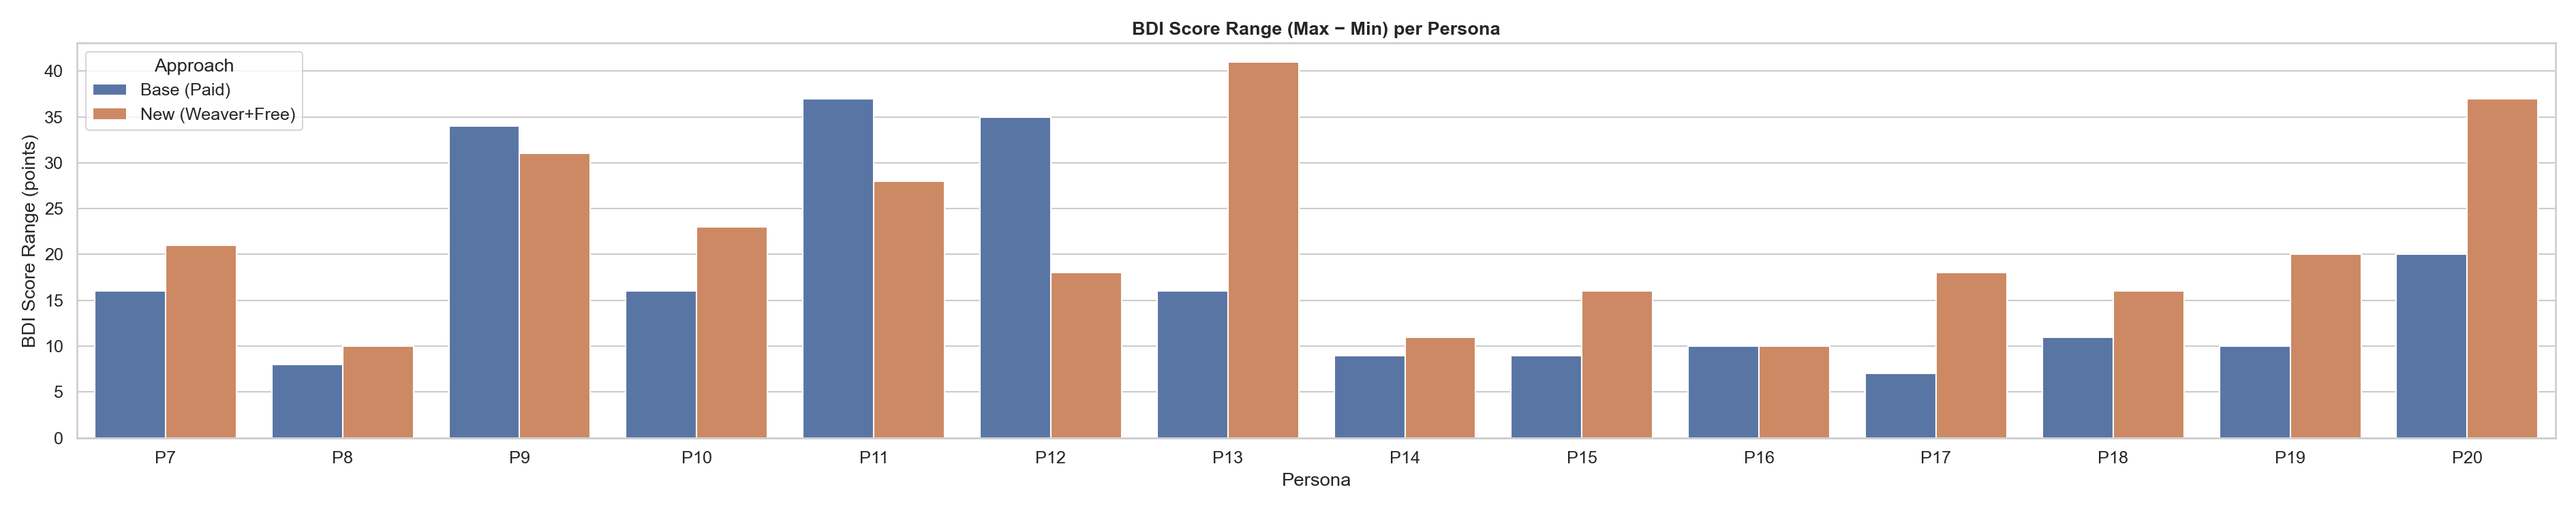
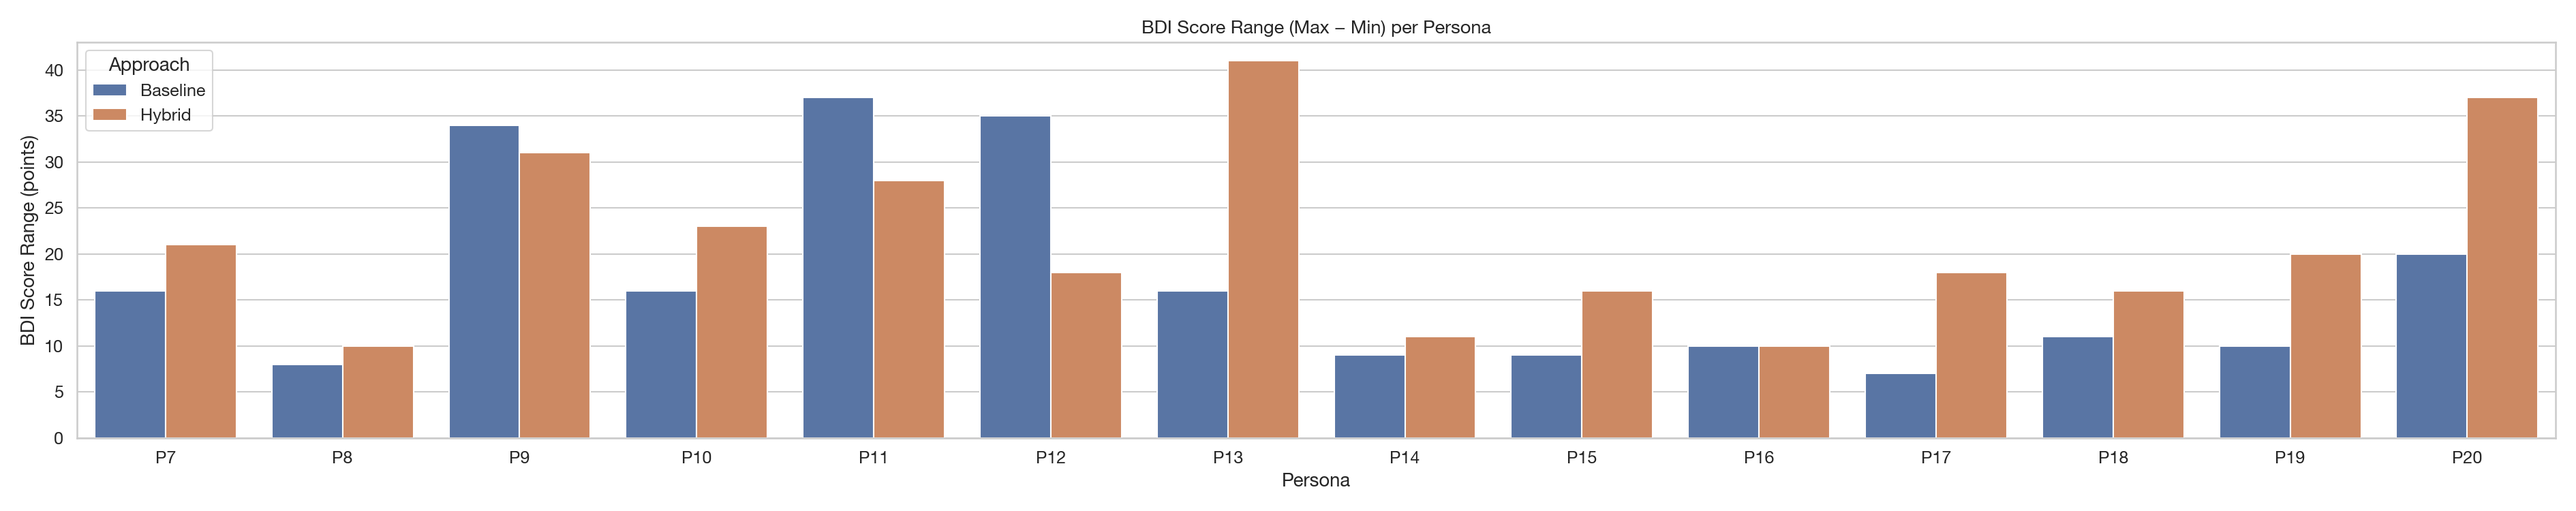
combine figures

diff --git a/user/victor/experiments/004-weaver/visualize.py b/user/victor/experiments/004-weaver/visualize.py
@@ -35,6 +35,11 @@ SEVERITY_COLORS = {
 }
 
 sns.set_theme(style="whitegrid", font_scale=1.1)
+plt.rcParams.update({
+    "font.family": "sans-serif",
+    "font.sans-serif": ["Helvetica Neue", "Helvetica", "Arial", "DejaVu Sans"],
+    "mathtext.fontset": "dejavusans",
+})
 
 
 # ── Data loading ─────────────────────────────────────────────────────────────
@@ -46,7 +51,7 @@ def load_csvs(results_dir: Path) -> pd.DataFrame:
         m = re.match(r"persona-(\d+)_scores_(base|new)\.csv", f.name)
         if not m:
             continue
-        approach = "Base (Paid)" if m.group(2) == "base" else "New (Weaver+Free)"
+        approach = "Baseline" if m.group(2) == "base" else "Hybrid"
         df = pd.read_csv(f)
         df["approach"] = approach
         rows.append(df)
@@ -77,11 +82,11 @@ def parse_symptoms(df: pd.DataFrame) -> pd.DataFrame:
 def plot_bdi_boxplot(df: pd.DataFrame, out: Path):
     """Box plots of BDI score per persona, side-by-side approaches."""
     personas = sorted(df["persona_label"].unique(), key=lambda p: int(p[1:]))
-    fig, ax = plt.subplots(figsize=(max(8, len(personas) * 1.8), 5))
+    fig, ax = plt.subplots(figsize=(max(8, len(personas) * 0.75), 5))
 
     sns.boxplot(
         data=df, x="persona_label", y="bdi_score", hue="approach",
-        order=personas, palette={"Base (Paid)": BASE_COLOR, "New (Weaver+Free)": NEW_COLOR},
+        order=personas, palette={"Baseline": BASE_COLOR, "Hybrid": NEW_COLOR},
         width=0.55, linewidth=1.2, flierprops=dict(marker="o", markersize=4),
         ax=ax,
     )
@@ -93,7 +98,7 @@ def plot_bdi_boxplot(df: pd.DataFrame, out: Path):
     ax.axhspan(14, 19, alpha=0.04, color="#bcbd22")
     ax.axhspan(20, 28, alpha=0.06, color="#ff7f0e")
     ax.axhspan(29, 63, alpha=0.06, color="#d62728")
-    _add_severity_legend(ax)
+    _add_severity_legend(ax, loc="upper left")
     ax.legend(title="Approach", loc="upper right")
     fig.tight_layout()
     fig.savefig(out / "01_bdi_boxplot_per_persona.png", dpi=150)
@@ -106,7 +111,7 @@ def plot_bdi_violin(df: pd.DataFrame, out: Path):
     fig, ax = plt.subplots(figsize=(6, 5))
     sns.violinplot(
         data=df, x="approach", y="bdi_score",
-        palette={"Base (Paid)": BASE_COLOR, "New (Weaver+Free)": NEW_COLOR},
+        palette={"Baseline": BASE_COLOR, "Hybrid": NEW_COLOR},
         inner="box", linewidth=1.2, ax=ax,
     )
     ax.set_title("Overall BDI Score Distribution", fontsize=14, fontweight="bold")
@@ -131,7 +136,7 @@ def plot_variance_comparison(df: pd.DataFrame, out: Path):
     fig, ax = plt.subplots(figsize=(max(8, len(personas) * 1.8), 5))
     sns.barplot(
         data=stats, x="persona_label", y="std", hue="approach",
-        order=personas, palette={"Base (Paid)": BASE_COLOR, "New (Weaver+Free)": NEW_COLOR},
+        order=personas, palette={"Baseline": BASE_COLOR, "Hybrid": NEW_COLOR},
         ax=ax,
     )
     ax.set_title("BDI Score Variance (Std Dev) per Persona", fontsize=14, fontweight="bold")
@@ -156,7 +161,7 @@ def plot_severity_distribution(df: pd.DataFrame, out: Path):
 
     fig, axes = plt.subplots(1, 2, figsize=(12, 5))
     for ax, approach, color in zip(
-        axes, ["Base (Paid)", "New (Weaver+Free)"], [BASE_COLOR, NEW_COLOR]
+        axes, ["Baseline", "Hybrid"], [BASE_COLOR, NEW_COLOR]
     ):
         sub = counts[counts["approach"] == approach]
         sub = sub.set_index("severity").reindex(SEVERITY_ORDER).fillna(0)
@@ -190,7 +195,7 @@ def plot_confidence_comparison(df: pd.DataFrame, out: Path):
     fig, ax = plt.subplots(figsize=(max(8, len(personas) * 1.8), 5))
     sns.boxplot(
         data=df, x="persona_label", y="confidence", hue="approach",
-        order=personas, palette={"Base (Paid)": BASE_COLOR, "New (Weaver+Free)": NEW_COLOR},
+        order=personas, palette={"Baseline": BASE_COLOR, "Hybrid": NEW_COLOR},
         width=0.55, linewidth=1.2, ax=ax,
     )
     ax.set_title("Scoring Confidence per Persona", fontsize=14, fontweight="bold")
@@ -211,7 +216,7 @@ def plot_turns_comparison(df: pd.DataFrame, out: Path):
     fig, ax = plt.subplots(figsize=(max(8, len(personas) * 1.8), 5))
     sns.boxplot(
         data=df, x="persona_label", y="turns", hue="approach",
-        order=personas, palette={"Base (Paid)": BASE_COLOR, "New (Weaver+Free)": NEW_COLOR},
+        order=personas, palette={"Baseline": BASE_COLOR, "Hybrid": NEW_COLOR},
         width=0.55, linewidth=1.2, ax=ax,
     )
     ax.set_title("Interview Turn Count per Persona", fontsize=14, fontweight="bold")
@@ -231,15 +236,15 @@ def plot_mean_scatter(df: pd.DataFrame, out: Path):
         .mean()
         .unstack("approach")
     )
-    if "Base (Paid)" not in means.columns or "New (Weaver+Free)" not in means.columns:
+    if "Baseline" not in means.columns or "Hybrid" not in means.columns:
         print("  Skipped scatter (missing approach)")
         return
 
     fig, ax = plt.subplots(figsize=(5.5, 5.5))
     for persona, row in means.iterrows():
-        ax.scatter(row["Base (Paid)"], row["New (Weaver+Free)"],
+        ax.scatter(row["Baseline"], row["Hybrid"],
                    s=90, zorder=5, color="#333")
-        ax.annotate(persona, (row["Base (Paid)"], row["New (Weaver+Free)"]),
+        ax.annotate(persona, (row["Baseline"], row["Hybrid"]),
                     textcoords="offset points", xytext=(6, 4), fontsize=9)
 
     lo = min(means.min()) - 3
@@ -247,9 +252,9 @@ def plot_mean_scatter(df: pd.DataFrame, out: Path):
     ax.plot([lo, hi], [lo, hi], "--", color="gray", linewidth=1, label="y = x")
     ax.set_xlim(lo, hi)
     ax.set_ylim(lo, hi)
-    ax.set_xlabel("Mean BDI — Base (Paid)")
-    ax.set_ylabel("Mean BDI — New (Weaver+Free)")
-    ax.set_title("Mean BDI Score: Base vs New per Persona",
+    ax.set_xlabel("Mean BDI, Baseline")
+    ax.set_ylabel("Mean BDI, Hybrid")
+    ax.set_title("Mean BDI Score: Baseline vs Hybrid per Persona",
                  fontsize=13, fontweight="bold")
     ax.legend(fontsize=9)
     fig.tight_layout()
@@ -258,14 +263,13 @@ def plot_mean_scatter(df: pd.DataFrame, out: Path):
     print(f"  Saved: 07_mean_bdi_scatter.png")
 
 
-def plot_symptom_heatmap(df: pd.DataFrame, out: Path):
-    """Heatmap of symptom frequency (% of samples) — base vs new."""
+def plot_symptom_panel(df: pd.DataFrame, out: Path):
+    """Side-by-side A/B panel: (A) symptom frequency heatmap, (B) frequency shift bar."""
     sym_df = parse_symptoms(df)
     if sym_df.empty:
-        print("  Skipped symptom heatmap (no symptom data)")
+        print("  Skipped symptom panel (no symptom data)")
         return
 
-    # Count how often each symptom appears (% of samples per approach)
     totals = df.groupby("approach").size().to_dict()
     counts = (
         sym_df.groupby(["approach", "key_symptoms"])
@@ -278,74 +282,54 @@ def plot_symptom_heatmap(df: pd.DataFrame, out: Path):
     pivot = counts.pivot_table(
         index="key_symptoms", columns="approach", values="pct", fill_value=0
     )
-    # Keep symptoms mentioned in ≥5% of samples by at least one approach
-    pivot = pivot[(pivot >= 5).any(axis=1)]
-    pivot = pivot.sort_values(
-        pivot.columns.tolist()[0] if pivot.columns.any() else pivot.columns[0],
-        ascending=False,
+
+    # Panel A data: symptoms in ≥5% of samples
+    pivot_heat = pivot[(pivot >= 5).any(axis=1)].sort_values(
+        pivot.columns.tolist()[0], ascending=False
     )
 
-    fig, ax = plt.subplots(figsize=(8, max(5, len(pivot) * 0.4 + 1)))
+    if "Baseline" not in pivot.columns or "Hybrid" not in pivot.columns:
+        return
+    diff = (pivot["Hybrid"] - pivot["Baseline"]).sort_values()
+    diff = diff[diff.abs() >= 3]
+
+    fig_h = max(5, max(len(pivot_heat), len(diff)) * 0.4 + 1)
+    fig, (ax_a, ax_b) = plt.subplots(1, 2, figsize=(15, fig_h))
+
+    # Panel A — heatmap
     sns.heatmap(
-        pivot, annot=True, fmt=".0f", cmap="YlOrRd",
+        pivot_heat, annot=True, fmt=".0f", cmap="YlOrRd",
         linewidths=0.5, cbar_kws={"label": "% of samples"},
-        ax=ax,
+        ax=ax_a,
     )
-    ax.set_title("Symptom Frequency (% samples flagged as key)",
-                 fontsize=13, fontweight="bold")
-    ax.set_xlabel("Approach")
-    ax.set_ylabel("Symptom")
-    fig.tight_layout()
-    fig.savefig(out / "08_symptom_heatmap.png", dpi=150)
-    plt.close(fig)
-    print(f"  Saved: 08_symptom_heatmap.png")
+    ax_a.set_title("A    Symptom Frequency (% samples flagged as key)",
+                   fontsize=12, fontweight="bold", loc="left")
+    ax_a.set_xlabel("Approach")
+    ax_a.set_ylabel("Symptom")
 
-
-def plot_symptom_diff_bar(df: pd.DataFrame, out: Path):
-    """Horizontal bar: difference in symptom frequency (new − base)."""
-    sym_df = parse_symptoms(df)
-    if sym_df.empty:
-        return
-
-    totals = df.groupby("approach").size().to_dict()
-    counts = (
-        sym_df.groupby(["approach", "key_symptoms"])
-        .size()
-        .reset_index(name="count")
-    )
-    counts["pct"] = counts.apply(
-        lambda r: r["count"] / totals.get(r["approach"], 1) * 100, axis=1
-    )
-    pivot = counts.pivot_table(
-        index="key_symptoms", columns="approach", values="pct", fill_value=0
-    )
-    if "Base (Paid)" not in pivot.columns or "New (Weaver+Free)" not in pivot.columns:
-        return
-    diff = (pivot["New (Weaver+Free)"] - pivot["Base (Paid)"]).sort_values()
-    diff = diff[diff.abs() >= 3]   # only show meaningful differences
-
-    fig, ax = plt.subplots(figsize=(7, max(4, len(diff) * 0.4 + 1)))
+    # Panel B — diff bar
     colors = [NEW_COLOR if v > 0 else BASE_COLOR for v in diff]
-    ax.barh(diff.index, diff.values, color=colors, edgecolor="white")
-    ax.axvline(0, color="black", linewidth=0.8)
-    ax.set_xlabel("Difference in % flagged (New − Base)")
-    ax.set_title("Symptom Frequency Shift: New vs Base",
-                 fontsize=13, fontweight="bold")
+    ax_b.barh(diff.index, diff.values, color=colors, edgecolor="white")
+    ax_b.axvline(0, color="black", linewidth=0.8)
+    ax_b.set_xlabel("Difference in % flagged (Hybrid − Baseline)")
+    ax_b.set_title("B    Symptom Frequency Shift: Hybrid vs Baseline",
+                   fontsize=12, fontweight="bold", loc="left")
     patches = [
-        mpatches.Patch(color=NEW_COLOR, label="More in New (Weaver+Free)"),
-        mpatches.Patch(color=BASE_COLOR, label="More in Base (Paid)"),
+        mpatches.Patch(color=NEW_COLOR, label="More in Hybrid"),
+        mpatches.Patch(color=BASE_COLOR, label="More in Baseline"),
     ]
-    ax.legend(handles=patches, fontsize=9)
+    ax_b.legend(handles=patches, fontsize=9)
+
     fig.tight_layout()
-    fig.savefig(out / "09_symptom_diff_bar.png", dpi=150)
+    fig.savefig(out / "08_symptom_panel.png", dpi=150)
     plt.close(fig)
-    print(f"  Saved: 09_symptom_diff_bar.png")
+    print(f"  Saved: 08_symptom_panel.png")
 
 
 def plot_confidence_vs_bdi(df: pd.DataFrame, out: Path):
     """Scatter: confidence vs BDI score, coloured by approach."""
     fig, ax = plt.subplots(figsize=(7, 5))
-    for approach, color in [("Base (Paid)", BASE_COLOR), ("New (Weaver+Free)", NEW_COLOR)]:
+    for approach, color in [("Baseline", BASE_COLOR), ("Hybrid", NEW_COLOR)]:
         sub = df[df["approach"] == approach]
         ax.scatter(sub["bdi_score"], sub["confidence"], alpha=0.5, s=30,
                    color=color, label=approach)
@@ -362,7 +346,7 @@ def plot_confidence_vs_bdi(df: pd.DataFrame, out: Path):
 def plot_turns_vs_bdi(df: pd.DataFrame, out: Path):
     """Scatter: turns vs BDI score, coloured by approach."""
     fig, ax = plt.subplots(figsize=(7, 5))
-    for approach, color in [("Base (Paid)", BASE_COLOR), ("New (Weaver+Free)", NEW_COLOR)]:
+    for approach, color in [("Baseline", BASE_COLOR), ("Hybrid", NEW_COLOR)]:
         sub = df[df["approach"] == approach]
         ax.scatter(sub["turns"], sub["bdi_score"], alpha=0.5, s=30,
                    color=color, label=approach)
@@ -384,7 +368,7 @@ def plot_severity_agreement(df: pd.DataFrame, out: Path):
         .unstack("approach")
         .reset_index()
     )
-    if "Base (Paid)" not in medians.columns or "New (Weaver+Free)" not in medians.columns:
+    if "Baseline" not in medians.columns or "Hybrid" not in medians.columns:
         return
 
     personas = sorted(medians["persona_label"].unique(), key=lambda p: int(p[1:]))
@@ -392,15 +376,15 @@ def plot_severity_agreement(df: pd.DataFrame, out: Path):
     w = 0.35
 
     fig, ax = plt.subplots(figsize=(max(8, len(personas) * 1.8), 5))
-    bars_base = ax.bar(x - w / 2, medians["Base (Paid)"],     w, color=BASE_COLOR, label="Base (Paid)")
-    bars_new  = ax.bar(x + w / 2, medians["New (Weaver+Free)"], w, color=NEW_COLOR,  label="New (Weaver+Free)")
+    bars_base = ax.bar(x - w / 2, medians["Baseline"],     w, color=BASE_COLOR, label="Baseline")
+    bars_new  = ax.bar(x + w / 2, medians["Hybrid"], w, color=NEW_COLOR,  label="Hybrid")
 
     ax.set_xticks(x)
     ax.set_xticklabels(personas)
     ax.set_xlabel("Persona")
     ax.set_ylabel("Median BDI Score")
     ax.set_ylim(0, 65)
-    ax.set_title("Median BDI Score per Persona: Base vs New",
+    ax.set_title("Median BDI Score per Persona: Baseline vs Hybrid",
                  fontsize=13, fontweight="bold")
     _add_severity_legend(ax, loc="upper left")
     ax.axhspan(0,  13, alpha=0.04, color="#2ca02c")
@@ -418,7 +402,7 @@ def plot_bdi_histogram_overlay(df: pd.DataFrame, out: Path):
     """Overlapping histograms of BDI scores for all samples."""
     fig, ax = plt.subplots(figsize=(7, 5))
     bins = np.arange(0, 66, 4)
-    for approach, color in [("Base (Paid)", BASE_COLOR), ("New (Weaver+Free)", NEW_COLOR)]:
+    for approach, color in [("Baseline", BASE_COLOR), ("Hybrid", NEW_COLOR)]:
         sub = df[df["approach"] == approach]["bdi_score"]
         ax.hist(sub, bins=bins, alpha=0.55, color=color, label=approach, edgecolor="white")
     ax.axvline(13.5, color="#2ca02c", linestyle=":", linewidth=1.2)
@@ -464,7 +448,7 @@ def plot_summary_table(df: pd.DataFrame, out: Path):
     # Colour approach cells
     for i in range(1, len(summary) + 1):
         approach = summary.iloc[i - 1]["Approach"]
-        color = "#dce8f5" if "Base" in approach else "#fde8d0"
+        color = "#dce8f5" if "Baseline" in approach else "#fde8d0"
         for j in range(len(summary.columns)):
             tbl[i, j].set_facecolor(color)
 
@@ -487,7 +471,7 @@ def plot_confidence_mean_bar(df: pd.DataFrame, out: Path):
     fig, ax = plt.subplots(figsize=(max(8, len(personas) * 1.8), 5))
     sns.barplot(
         data=stats, x="persona_label", y="confidence", hue="approach",
-        order=personas, palette={"Base (Paid)": BASE_COLOR, "New (Weaver+Free)": NEW_COLOR},
+        order=personas, palette={"Baseline": BASE_COLOR, "Hybrid": NEW_COLOR},
         ax=ax,
     )
     ax.axhline(0.6, linestyle="--", color="gray", linewidth=1, label="Threshold (0.6)")
@@ -529,11 +513,11 @@ def plot_top_symptoms_grouped(df: pd.DataFrame, out: Path):
     sns.barplot(
         data=sub, x="key_symptoms", y="pct", hue="approach",
         order=top_symptoms,
-        palette={"Base (Paid)": BASE_COLOR, "New (Weaver+Free)": NEW_COLOR},
+        palette={"Baseline": BASE_COLOR, "Hybrid": NEW_COLOR},
         ax=ax,
     )
     ax.set_xticklabels(ax.get_xticklabels(), rotation=35, ha="right", fontsize=9)
-    ax.set_title("Top 10 Key Symptoms: Base vs New",
+    ax.set_title("Top 10 Key Symptoms: Baseline vs Hybrid",
                  fontsize=13, fontweight="bold")
     ax.set_xlabel("Symptom")
     ax.set_ylabel("% of Samples")
@@ -556,7 +540,7 @@ def plot_score_range_per_persona(df: pd.DataFrame, out: Path):
     fig, ax = plt.subplots(figsize=(max(8, len(personas) * 1.8), 5))
     sns.barplot(
         data=ranges, x="persona_label", y="range", hue="approach",
-        order=personas, palette={"Base (Paid)": BASE_COLOR, "New (Weaver+Free)": NEW_COLOR},
+        order=personas, palette={"Baseline": BASE_COLOR, "Hybrid": NEW_COLOR},
         ax=ax,
     )
     ax.set_title("BDI Score Range (Max − Min) per Persona",
@@ -606,8 +590,8 @@ def plot_selected_runs_comparison(submissions_dir: Path, out: Path):
     w = 0.35
 
     fig, ax = plt.subplots(figsize=(max(8, len(personas) * 0.9), 5))
-    ax.bar(x - w/2, paid,   w, label="Run 1 — Paid (GPT)",        color=BASE_COLOR)
-    ax.bar(x + w/2, hybrid, w, label="Runs 2-3 avg — Hybrid (Weaver+Free)", color=NEW_COLOR)
+    ax.bar(x - w/2, paid,   w, label="Run 1: Baseline",     color=BASE_COLOR)
+    ax.bar(x + w/2, hybrid, w, label="Runs 2-3 avg: Hybrid", color=NEW_COLOR)
 
     ax.set_xticks(x)
     ax.set_xticklabels(personas)
@@ -658,8 +642,7 @@ def main():
     plot_confidence_comparison(df, out)
     plot_turns_comparison(df, out)
     plot_mean_scatter(df, out)
-    plot_symptom_heatmap(df, out)
-    plot_symptom_diff_bar(df, out)
+    plot_symptom_panel(df, out)
     plot_confidence_vs_bdi(df, out)
     plot_turns_vs_bdi(df, out)
     plot_severity_agreement(df, out)
